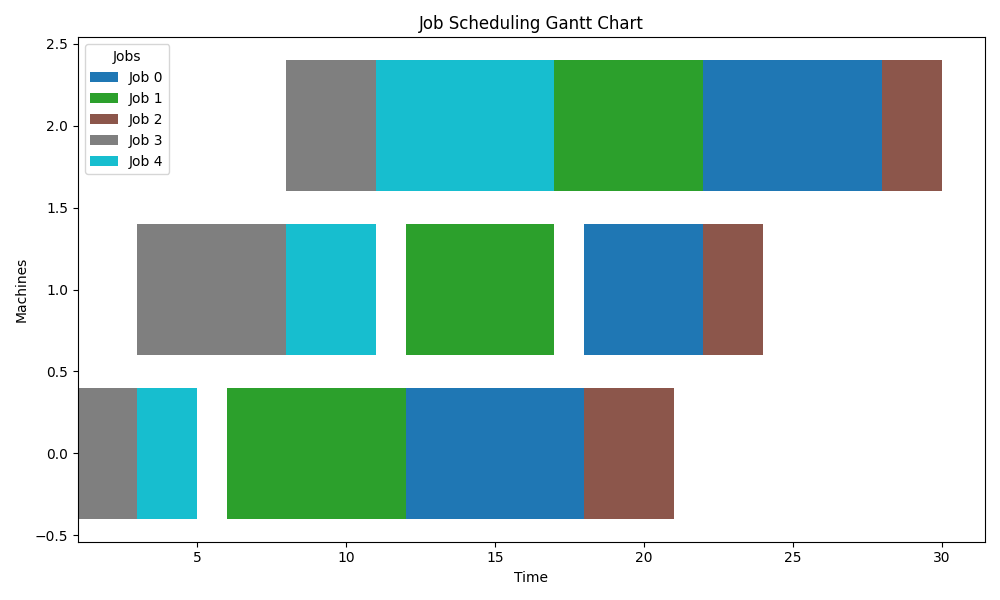
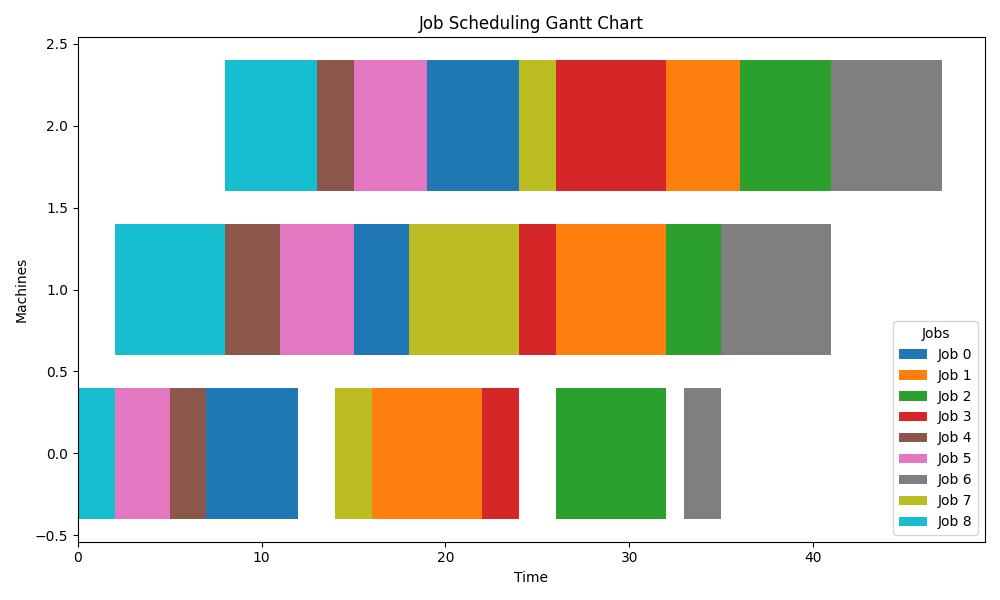
runtime

diff --git a/test_runtime.py b/test_runtime.py
@@ -1,0 +1,95 @@
+import pulp
+import random
+import time
+import matplotlib.pyplot as plt
+
+# Function to generate random data for the job scheduling problem
+def generate_data(num_jobs, num_machines):
+    jobs = list(range(num_jobs))
+    machines = list(range(num_machines))
+
+    release_times = {j: random.randint(0, 8) for j in jobs}
+    due_dates = {j: random.randint(8, 20) for j in jobs}
+    weights = {j: random.randint(1, 6) for j in jobs}
+    processing_times = {(j, m): random.randint(2, 6) for j in jobs for m in machines}
+
+    return jobs, machines, release_times, due_dates, weights, processing_times
+
+# Function to solve the job scheduling problem and return the runtime
+def solve_job_scheduling(num_jobs, num_machines):
+    jobs, machines, release_times, due_dates, weights, processing_times = generate_data(num_jobs, num_machines)
+
+    # Define ILP Model
+    model = pulp.LpProblem("Job_Scheduling", pulp.LpMinimize)
+
+    # Decision Variables
+    S = pulp.LpVariable.dicts("Start", [(j, m) for j in jobs for m in machines], lowBound=0, cat='Continuous')
+    C = pulp.LpVariable.dicts("Completion", jobs, lowBound=0, cat='Continuous')
+    T = pulp.LpVariable.dicts("Tardiness", jobs, lowBound=0, cat='Continuous')
+    X = pulp.LpVariable.dicts("Order", [(j, j2, m) for j in jobs for j2 in jobs for m in machines if j != j2], cat='Binary')
+
+    # Objective Function: Minimize Weighted Sum of Tardiness
+    model += pulp.lpSum(weights[j] * T[j] for j in jobs)
+
+    # Constraints
+    BIG_M = 1000
+    for j in jobs:
+        model += C[j] == S[j, num_machines-1] + processing_times[j, num_machines-1]
+        model += T[j] >= C[j] - due_dates[j]
+
+        for m in machines:
+            if m == 0:
+                model += S[j, m] >= release_times[j]
+            else:
+                model += S[j, m] >= S[j, m-1] + processing_times[j, m-1]
+
+            for j2 in jobs:
+                if j != j2:
+                    model += S[j, m] + processing_times[j, m] <= S[j2, m] + BIG_M * (1 - X[j, j2, m])
+                    model += S[j2, m] + processing_times[j2, m] <= S[j, m] + BIG_M * X[j, j2, m]
+
+    # Start timing the solver
+    start_time = time.time()
+
+    solver = pulp.PULP_CBC_CMD(msg=False)
+    model.solve(solver)
+
+    solve_time = time.time() - start_time  # Time taken to solve the model
+    return solve_time
+
+# Main function to test for different configurations and compare runtimes
+def test_runtime():
+    job_server_combinations = [
+        (3, 3),
+        (4, 3),
+        (5, 3),
+        (6, 3),
+        (7, 3),
+        (8, 3),
+        (9, 3),
+    ]
+    
+    runtimes = []
+
+    for num_jobs, num_machines in job_server_combinations:
+        print(f"Testing with {num_jobs} jobs and {num_machines} machines...")
+        solve_time = solve_job_scheduling(num_jobs, num_machines)
+        runtimes.append((num_jobs, num_machines, solve_time))
+        print(f"Runtime: {solve_time:.2f} seconds\n")
+    
+    # Plotting the runtime comparison
+    job_counts = [x[0] for x in runtimes]
+    machine_counts = [x[1] for x in runtimes]
+    times = [x[2] for x in runtimes]
+
+    plt.figure(figsize=(10, 6))
+    plt.scatter(job_counts, times, c=machine_counts, cmap='viridis', label="Machines")
+    plt.title("Runtime vs. Number of Jobs")
+    plt.xlabel("Number of Jobs")
+    plt.ylabel("Runtime (seconds)")
+    plt.colorbar(label="Number of Machines")
+    plt.grid(True)
+    plt.show()
+
+if __name__ == "__main__":
+    test_runtime()

diff --git a/algorithm.py b/algorithm.py
@@ -2,22 +2,23 @@ import pulp
 import random
 import pandas as pd
 import matplotlib.pyplot as plt
+import time  # For timing the execution
 
 # --------------------------
 # 1. Generate Fake Data
 # --------------------------
 random.seed(43)
 
-J = 5  # Number of jobs
+J = 9  # Number of jobs
 M = 3  # Number of machines
 
 jobs = list(range(J))
 machines = list(range(M))
 
 # Generate random release times, due dates, weights, and processing times
-release_times = {j: random.randint(0, 5) for j in jobs}
-due_dates = {j: random.randint(10, 20) for j in jobs}
-weights = {j: random.randint(1, 5) for j in jobs}
+release_times = {j: random.randint(0, 8) for j in jobs}
+due_dates = {j: random.randint(8, 20) for j in jobs}
+weights = {j: random.randint(1, 6) for j in jobs}
 processing_times = {(j, m): random.randint(2, 6) for j in jobs for m in machines}
 
 # Large M constant
@@ -26,6 +27,8 @@ BIG_M = 1000
 # --------------------------
 # 2. Define the ILP Model
 # --------------------------
+start_time = time.time()  # Start timing
+
 model = pulp.LpProblem("Job_Scheduling", pulp.LpMinimize)
 
 # Decision Variables
@@ -61,8 +64,12 @@ for j in jobs:
 # --------------------------
 # 3. Solve the Model
 # --------------------------
+print(f"Starting to solve the model at {time.ctime()}")  # Print current time before solving
 solver = pulp.PULP_CBC_CMD(msg=False)
 model.solve(solver)
+
+solve_time = time.time() - start_time  # Time taken to solve the model
+print(f"Model solved in {solve_time:.2f} seconds at {time.ctime()}")  # Print how long solving took
 
 # --------------------------
 # 4. Print Results
@@ -91,6 +98,7 @@ print(schedule_df)
 # --------------------------
 # 6. Create a Gantt Chart Visualization
 # --------------------------
+print(f"Starting to create Gantt chart at {time.ctime()}")  # Print time before plotting
 
 # Plotting the schedule on a Gantt chart style graph
 fig, ax = plt.subplots(figsize=(10, 6))
@@ -116,6 +124,9 @@ ax.legend(handles[:len(jobs)], labels[:len(jobs)], title="Jobs")
 # Save the plot as an image
 plt.tight_layout()
 plt.savefig('job_scheduling_gantt_chart_no_overlap.png')
+
+plot_time = time.time() - start_time  # Time taken for plotting
+print(f"Gantt chart created in {plot_time:.2f} seconds at {time.ctime()}")  # Print how long plotting took
 
 # Show the plot
 plt.show()
